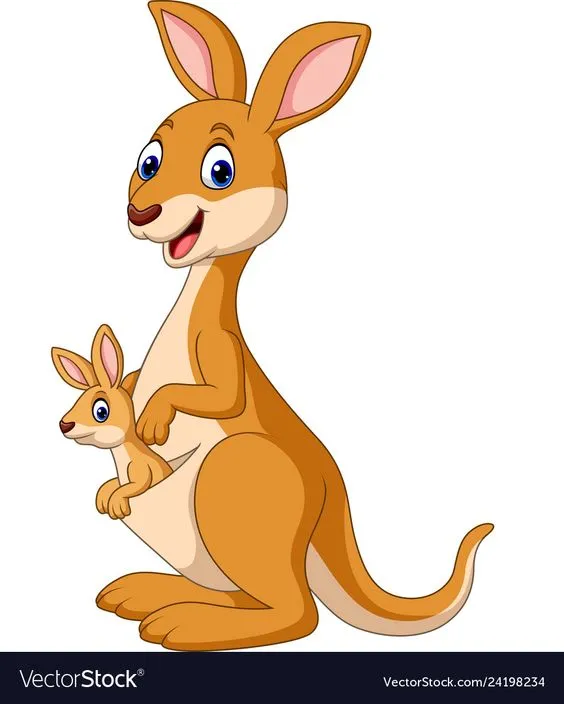
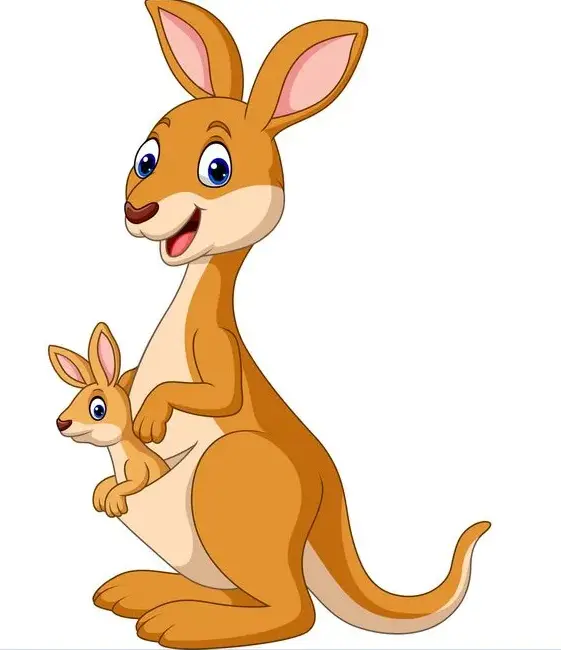
- Cropped kangaroo image, Fixed front card image and image layout. -Started working on margin and padding styling

Changed region(s): [[0.0, 0.0, 1.0, 1.0]]

diff --git a/script/script.js b/script/script.js
@@ -133,14 +133,17 @@ export function checkGameOver() {
     }
 }
 
-function updateFinalScore({timer, cards, difficult:{coupleNum}}){
-    const timeFactor = 1000, failFactor = 30, diffFactor = 20;
-    let timeBonus = coupleNum * timeFactor / timer.time.value;
-    let failPenalty = cards.numOfFail.value * failFactor / coupleNum;
+function updateFinalScore({ timer, cards, difficult: { coupleNum } }) {
+    const timeFactor = 1000,
+        failFactor = 30,
+        diffFactor = 20;
+    let timeBonus = (coupleNum * timeFactor) / timer.time.value;
+    let failPenalty = (cards.numOfFail.value * failFactor) / coupleNum;
     let difficultyBonus = diffFactor * coupleNum;
     let total = timeBonus + difficultyBonus - failPenalty;
-    
-    cards.scoreNum.value = total > coupleNum * diffFactor ? total | 0 : coupleNum * diffFactor;
+
+    cards.scoreNum.value =
+        total > coupleNum * diffFactor ? total | 0 : coupleNum * diffFactor;
 }
 
 //! gotta move this to a better place (maybe along with the call back checkGameOver)
@@ -219,15 +222,20 @@ const addBackgroundImageToAllCards = ({ cards }) => {
         const backCard = card.lastChild;
         const frontCard = card.firstChild;
         const img = document.createElement("img");
+        const frontImg = document.createElement("img");
         img.src = `./assets/img/animals/${cardType}.webp`;
+        frontImg.src = `./assets/img/front/paw1.png`;
         img.classList.add("item-img");
+        frontImg.classList.add("item-img");
+        frontCard.appendChild(frontImg);
         backCard.appendChild(img);
         backCard.style = "display: flex; justify-content: center;";
+        frontCard.style = "display: flex; justify-content: center;";
 
         // backCard.style.backgroundImage = `url(../assets/img/${cardType}.webp)`;
         // backCard.style.backgroundImage = `url(../assets/img/back-mobile/cat-mobile.png)`; //!Will remove when I end working on cutting the images of cards to the correct width and height
+        // frontCard.style.backgroundImage = `url(../assets/img/front/paw1.png)`;
         backCard.classList.add("center-img");
-        frontCard.style.backgroundImage = `url(../assets/img/front/paw1.png)`;
         frontCard.classList.add("center-img");
     });
 };

diff --git a/css/style.css b/css/style.css
@@ -63,7 +63,7 @@ html {
     gap: 3rem;
     background: #d3a86c;
     margin-left: 8rem;
-    height: 80%;
+    height: 90%;
     border-radius: 8px;
     box-shadow: rgba(0, 0, 0, 0.3) 0px 19px 38px,
         rgba(0, 0, 0, 0.22) 0px 15px 12px;
@@ -130,7 +130,7 @@ footer {
 .card {
     cursor: pointer;
     /* preserve-3d meaning that the children of the 
-    element positioned in the #D space */
+    element positioned in the 3D space */
     transform-style: preserve-3d;
     transform-origin: center right;
     transition: transform 1s;
@@ -159,7 +159,7 @@ footer {
 }
 .card-front {
     /*!remove background when finish working*/
-    background: pink;
+    background: #f8f1eb;
 }
 
 .cards-container {
@@ -174,8 +174,9 @@ footer {
 }
 
 .item-img {
-    width: 100%;
-    height: 100%;
+    width: auto;
+    height: auto;
+    border-radius: 4px;
 }
 
 /* Related to the difficulty pop-up */
@@ -295,8 +296,9 @@ footer {
         display: grid;
         grid-template-columns: repeat(var(--columns), 1fr);
         grid-template-rows: repeat(var(--rows), 1fr);
-        width: 70%;
+        width: 90%;
         height: 80%;
+        padding: 0;
     }
 
     .card-scene {
@@ -307,13 +309,17 @@ footer {
         font-size: 1.5rem;
         margin-top: 0;
     }
-    .item-img {
-        width: 100%;
-        height: auto;
-    }
 }
 
 @media (max-width: 530px) {
+    .header h1 {
+        font-size: 3rem;
+    }
+
+    .header h2 {
+        font-size: 2rem;
+    }
+
     .difficulty-container {
         display: grid;
         grid-template-columns: repeat(2, 1fr);
@@ -329,7 +335,7 @@ footer {
 
     .cards-container {
         width: 95%;
-        padding: 0;
+        padding: 3px;
     }
     .left-sidebar {
         width: 95%;

diff --git a/README.md b/README.md
@@ -19,19 +19,21 @@ Change listener -->
 
 ### Features
 
-- Timer setting
-- Keeping track of wrong and correct answers
-- scroring method
-- fixing a pause between flipping a pair of cards
-- Multiple Game theme options
-- Different game levels
+-   Timer setting
+-   Keeping track of wrong and correct answers
+-   scoring method
+-   fixing a pause between flipping a pair of cards
+-   Multiple Game theme options
+-   Different game levels
 
 ## Main Technologies:
 
-- JS
-- HTML
-- CSS
+-   JS
+-   HTML
+-   CSS
 
 ## Game Link
 
 [Memory Game](https://memory-game-kts.netlify.app/)
+
+[![Readme Card](https://github-readme-stats.vercel.app/api/pin/?username=shirtol&repo=Memory-Game)](https://github.com/shirtol/Memory-Game)
